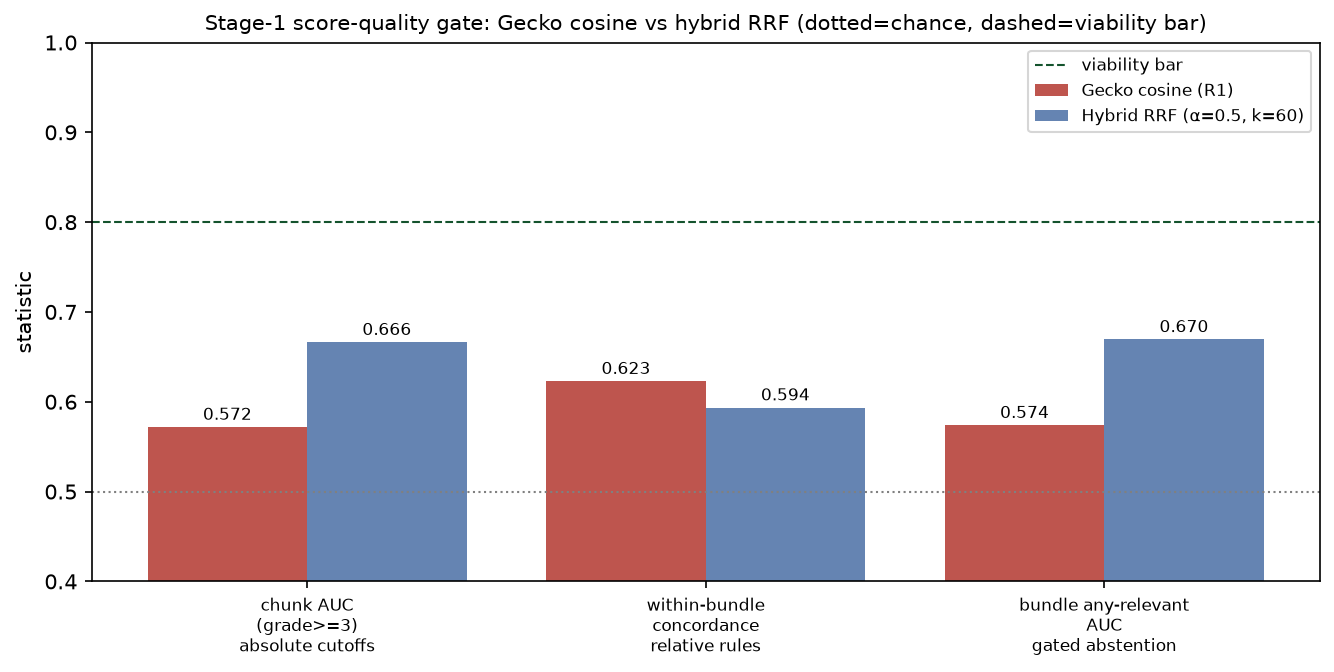
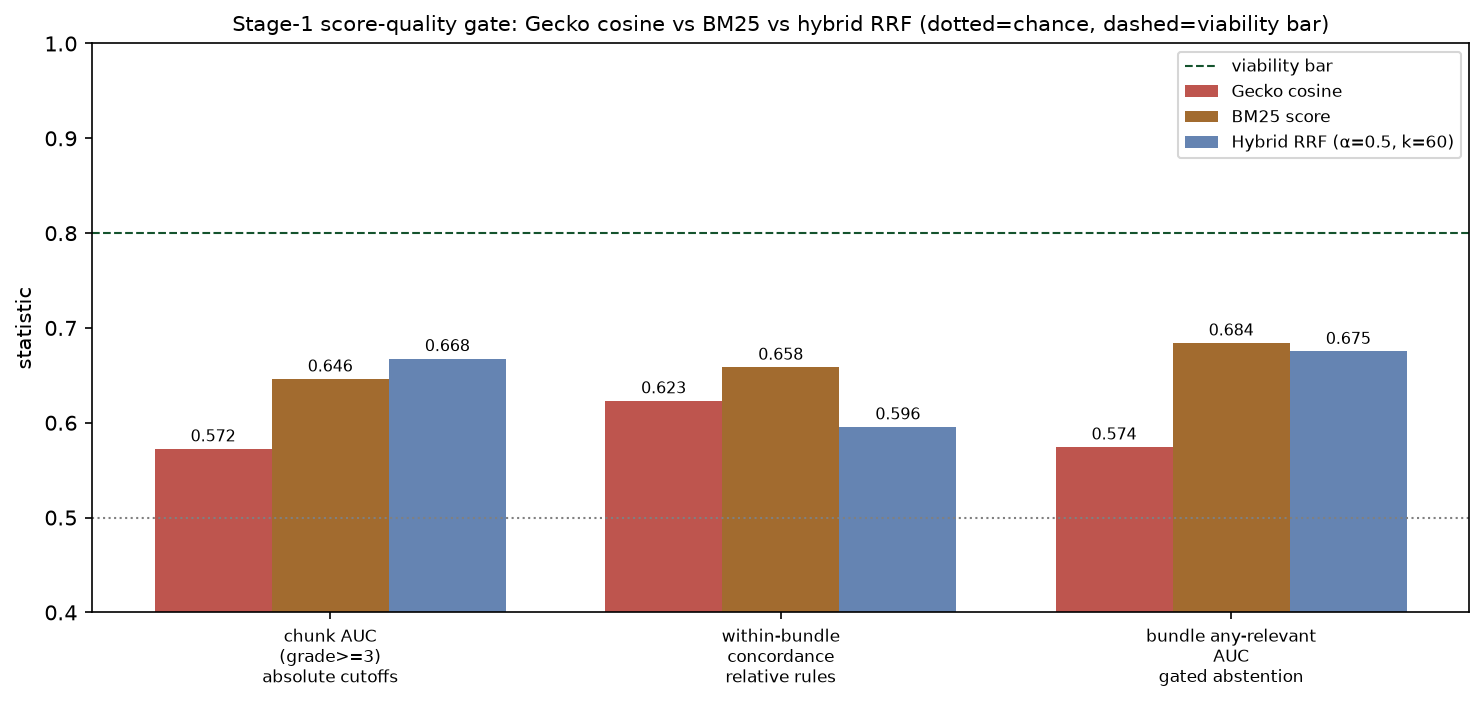
results(r2a): add BM25 to the threshold-gate comparison — three-way, all from data
Compute the Stage-1 gate on each retriever's native score (gecko cosine,
bm25 score, hybrid RRF) instead of citing hardcoded constants; gecko
reproduces R1's 0.572/0.623/0.574 exactly as a cross-check. Finding: BM25's
raw score is the most thresholdable (best on 2 of 3, incl. gated-abstention
bundle AUC 0.684); the hybrid wins cross-query chunk AUC but its
within-bundle concordance (0.596) drops below both parents. None reaches
the 0.80 bar — thresholding stays sub-viable, R1's core finding survives.

diff --git a/configs/config-v0.2.0/reports/r2-hybrid/r2a-hybrid-result-20260613.html b/configs/config-v0.2.0/reports/r2-hybrid/r2a-hybrid-result-20260613.html
@@ -123,47 +123,54 @@ is flat in it (P@3 moves ±0.01 across <em>k</em>=10–100).
 
 <h2>Does the hybrid revive thresholding?</h2>
 <p>
-R1 killed thresholding on Gecko's <em>cosine</em> scores. The hybrid produces a
-different score — the RRF fused score — which is rank-based and bounded, so it
-could be more comparable across queries. Running the R1 §6 Stage-1 gate on the
-fused score (deployable config α=0.5, k=60) against Gecko's cosine numbers:
+R1 killed thresholding on Gecko's <em>cosine</em> scores. Both alternatives carry
+a different score — BM25's lexical score, and the hybrid's RRF fused score, each
+rank-/frequency-based and bounded, so potentially more comparable across queries.
+Running the R1 §6 Stage-1 gate on all three native scores (hybrid at the
+deployable α=0.5, k=60). Gecko reproduces R1's cosine numbers exactly
+(0.572 / 0.623 / 0.574), a cross-check that the computation is sound.
 </p>
 <figure>
-  <img src="fig_hybrid_gate.png" alt="Stage-1 gate: Gecko cosine vs hybrid RRF">
-  <figcaption>The three Stage-1 statistics, Gecko cosine (R1) vs hybrid RRF.
-  Dotted = chance (0.5); dashed = the 0.80 viability bar.</figcaption>
+  <img src="fig_hybrid_gate.png" alt="Stage-1 gate: Gecko cosine vs BM25 vs hybrid RRF">
+  <figcaption>The three Stage-1 statistics, Gecko cosine vs BM25 score vs hybrid
+  RRF. Dotted = chance (0.5); dashed = the 0.80 viability bar.</figcaption>
 </figure>
 <table>
-  <tr><th>Statistic (rule family it gates)</th><th class="num">Gecko cosine (R1)</th>
-      <th class="num">Hybrid RRF</th></tr>
+  <tr><th>Statistic (rule family it gates)</th><th class="num">Gecko cosine</th>
+      <th class="num">BM25 score</th><th class="num">Hybrid RRF</th></tr>
   <tr><td>chunk AUC ≥3 (absolute cutoffs)</td><td class="num">0.572</td>
-      <td class="num win">0.666</td></tr>
+      <td class="num">0.646</td><td class="num win">0.668</td></tr>
   <tr><td>within-bundle concordance (relative rules)</td><td class="num">0.623</td>
-      <td class="num flat">0.594</td></tr>
+      <td class="num win">0.659</td><td class="num flat">0.596</td></tr>
   <tr><td>bundle any-relevant AUC (gated abstention)</td><td class="num">0.574</td>
-      <td class="num win">0.670</td></tr>
+      <td class="num win">0.684</td><td class="num">0.675</td></tr>
 </table>
 <ul>
-  <li><strong>The fused score is a meaningfully better global signal.</strong>
-      Chunk AUC and bundle-level AUC both jump ~0.10 — because RRF scores are
-      rank-based and comparable across queries (the cross-query comparability
-      cosine lacked), and "found by both retrievers at good rank" genuinely
-      tracks relevance.</li>
-  <li><strong>But still below the 0.80 viability bar.</strong> The best threshold
-      rule the hybrid enables — <em>gated abstention</em> ("if the fused top-1 is
-      low, skip RAG for this query") at AUC 0.670 — is the most promising
-      threshold-like signal we've measured, yet remains marginal, not viable.</li>
-  <li><strong>Relative rules stay dead.</strong> Within-bundle concordance is if
-      anything slightly worse (0.594): among the three already-top fused chunks,
-      the fine ordering carries no more relevance signal than cosine did. R1's
-      core finding — the score can't grade usefulness <em>within</em> the
-      retrieved set — survives the hybrid.</li>
+  <li><strong>BM25's raw score is the most thresholdable of the three</strong> —
+      best on two of three statistics, including the gated-abstention signal
+      (bundle AUC 0.684). Lexical match frequency is a more honest relevance-
+      confidence cue than embedding cosine: a chunk that shares the query's exact
+      terms is more reliably on-point than one that is merely near it in vector
+      space.</li>
+  <li><strong>Fusion trades within-bundle signal for cross-query separation.</strong>
+      The hybrid wins chunk AUC (0.668 — RRF scores are comparable across queries,
+      which cosine wasn't) but its within-bundle concordance (0.596) drops below
+      <em>both</em> parents: blending two rank systems blurs the fine ordering
+      inside a bundle. The best query-level gate signal is BM25's, not the
+      hybrid's.</li>
+  <li><strong>None reaches the 0.80 viability bar.</strong> The strongest
+      threshold-like signal anywhere — BM25's bundle-level gated abstention
+      ("skip RAG when the top BM25 score is low") at 0.684 — is the most promising
+      we've measured, yet still marginal, not viable. R1's core finding survives:
+      no score grades usefulness <em>within</em> the retrieved set well enough for
+      a relative rule (best concordance 0.659).</li>
 </ul>
 <p class="note">
-Takeaway: the hybrid does not revive thresholding to viability, but it shifts the
-most promising rule from "none" to a marginal <em>query-level RAG on/off gate</em>.
-If R2c/R2d later push the bundle-level AUC past ~0.80, that gate becomes worth an
-end-to-end test; today it is not.
+Takeaway: neither alternative revives thresholding to viability, but both beat
+Gecko's cosine, and BM25's lexical score is the single best relevance-confidence
+signal measured. The most promising rule is a marginal <em>query-level RAG on/off
+gate</em> driven by BM25's top score. If R2c/R2d later push a bundle-level AUC past
+~0.80, that gate becomes worth an end-to-end test; today it is not.
 </p>
 
 <h2>Reproducibility</h2>

diff --git a/retrieval_eval/gate_hybrid.py b/retrieval_eval/gate_hybrid.py
@@ -26,7 +26,41 @@ from datetime import datetime, timezone
 from pathlib import Path
 
 from retrieval_eval.compare_retriever_gates import gate_stats
-from retrieval_eval.simulate_hybrid import load_rank_maps
+
+
+def load_rankings_and_grades(hf_repo: str, revision: str):
+    """Return (rankings DataFrame, grades dict)."""
+    import pandas as pd
+    from datasets import load_dataset
+    from huggingface_hub import hf_hub_download
+
+    rk = pd.read_parquet(hf_hub_download(
+        hf_repo, "data/rankings.parquet", repo_type="dataset", revision=revision))
+    judgments = load_dataset(hf_repo, "judgments", revision=revision, split="test")
+    grades = {(r["query_id"], r["chunk_id"]): int(r["score"]) for r in judgments}
+    return rk, grades
+
+
+def single_retriever_rows(rk, retriever: str, grades: dict) -> list[dict]:
+    """Rows {query_id, rank, score, grade} from a retriever's own ranking +
+    its native score (cosine for gecko, BM25 score for bm25)."""
+    sub = rk[rk["retriever"] == retriever]
+    rows = []
+    for r in sub.itertuples():
+        g = grades.get((r.query_id, r.chunk_id))
+        if g is not None:
+            rows.append({"query_id": r.query_id, "rank": int(r.rank),
+                         "score": float(r.score), "grade": g})
+    return rows
+
+
+def rank_map(rk, retriever: str) -> dict:
+    """{query_id: {chunk_id: rank}} for RRF fusion."""
+    sub = rk[rk["retriever"] == retriever]
+    m: dict[str, dict[str, int]] = {}
+    for r in sub.itertuples():
+        m.setdefault(r.query_id, {})[r.chunk_id] = int(r.rank)
+    return m
 
 
 def build_hybrid_rows(gecko: dict, bm25: dict, grades: dict,
@@ -54,18 +88,6 @@ def build_hybrid_rows(gecko: dict, bm25: dict, grades: dict,
     return rows
 
 
-def gecko_rows(gecko: dict, grades: dict) -> list[dict]:
-    rows = []
-    for qid, ranks in gecko.items():
-        for cid, rk in ranks.items():
-            g = grades.get((qid, cid))
-            if g is not None:
-                # cosine score is irrelevant to rank-based stats; use -rank so
-                # within-bundle / pooled ordering matches gecko's own ranking.
-                rows.append({"query_id": qid, "rank": rk, "score": -rk, "grade": g})
-    return rows
-
-
 def main():
     ap = argparse.ArgumentParser(description=__doc__)
     ap.add_argument("--hf-repo", default="nmrenyi/mamaretrieval")
@@ -79,32 +101,30 @@ def main():
     results_dir = Path(args.results_dir); results_dir.mkdir(parents=True, exist_ok=True)
     report_dir = Path(args.report_dir); report_dir.mkdir(parents=True, exist_ok=True)
 
-    rank_maps, grades = load_rank_maps(args.hf_repo, args.revision)
-    gecko, bm25 = rank_maps["gecko"], rank_maps["bm25"]
+    rk, grades = load_rankings_and_grades(args.hf_repo, args.revision)
 
-    hybrid = gate_stats(build_hybrid_rows(gecko, bm25, grades, args.alpha, args.k))
+    # All three gates computed from data on their native score:
+    #   gecko -> cosine, bm25 -> BM25 score, hybrid -> RRF fused score.
+    gecko = gate_stats(single_retriever_rows(rk, "gecko", grades))
+    bm25 = gate_stats(single_retriever_rows(rk, "bm25", grades))
+    hybrid = gate_stats(build_hybrid_rows(
+        rank_map(rk, "gecko"), rank_map(rk, "bm25"), grades, args.alpha, args.k))
     hybrid["config"] = {"alpha": args.alpha, "k": args.k}
-
-    # Gecko reference: rank-based stats reproduce R1's cosine numbers because
-    # within gecko's own top-3 the cosine order IS the rank order; the chunk-AUC
-    # here uses -rank, so it is NOT the cosine AUC (that was 0.572 in R1). We
-    # cite R1's cosine AUC explicitly instead of recomputing it from ranks.
-    gecko_g = gate_stats(gecko_rows(gecko, grades))
 
     out = {
         "created_at_utc": datetime.now(timezone.utc).strftime("%Y-%m-%dT%H:%M:%SZ"),
         "source": {"hf_repo": args.hf_repo, "revision": args.revision},
-        "note": "hybrid score = RRF fused score; gecko_rank_based uses -rank so "
-                "its chunk_auc is a rank proxy, NOT gecko's cosine AUC (0.572, "
-                "see R1 §3). Compare the hybrid's RRF-score AUC against 0.572.",
-        "gecko_cosine_auc_grade3_from_r1": 0.572,
+        "note": "each gate computed on the retriever's native score: gecko cosine, "
+                "bm25 BM25 score, hybrid RRF fused score. gecko chunk AUC should "
+                "reproduce R1 §3 (0.572) as a cross-check.",
+        "gecko_cosine": gecko,
+        "bm25": bm25,
         "hybrid_rrf": hybrid,
-        "gecko_rank_based_reference": gecko_g,
     }
     with open(results_dir / "hybrid_gate.json", "w") as f:
         json.dump(out, f, indent=2)
 
-    # Comparison figure: gecko cosine (from R1) vs hybrid RRF on the 3 stats.
+    # Comparison figure: gecko cosine vs bm25 vs hybrid RRF on the 3 stats.
     import matplotlib
     matplotlib.use("Agg")
     import matplotlib.pyplot as plt
@@ -112,37 +132,43 @@ def main():
     labels = ["chunk AUC\n(grade>=3)\nabsolute cutoffs",
               "within-bundle\nconcordance\nrelative rules",
               "bundle any-relevant\nAUC\ngated abstention"]
-    gecko_vals = [0.572, 0.623, 0.574]   # R1 §3 cosine numbers
-    hybrid_vals = [hybrid["chunk_auc_grade3"], hybrid["within_bundle_concordance"],
-                   hybrid["bundle_any_relevant_auc_top1"]]
+    series = [
+        ("Gecko cosine", "#b3372f", [gecko["chunk_auc_grade3"],
+         gecko["within_bundle_concordance"], gecko["bundle_any_relevant_auc_top1"]]),
+        ("BM25 score", "#92510a", [bm25["chunk_auc_grade3"],
+         bm25["within_bundle_concordance"], bm25["bundle_any_relevant_auc_top1"]]),
+        (f"Hybrid RRF (α={args.alpha}, k={args.k})", "#4a6fa5",
+         [hybrid["chunk_auc_grade3"], hybrid["within_bundle_concordance"],
+          hybrid["bundle_any_relevant_auc_top1"]]),
+    ]
     x = range(len(labels))
-    fig, ax = plt.subplots(figsize=(9, 4.6))
-    ax.bar([i - 0.2 for i in x], gecko_vals, 0.4, label="Gecko cosine (R1)",
-           color="#b3372f", alpha=0.85)
-    ax.bar([i + 0.2 for i in x], hybrid_vals, 0.4,
-           label=f"Hybrid RRF (α={args.alpha}, k={args.k})", color="#4a6fa5",
-           alpha=0.85)
+    width = 0.26
+    fig, ax = plt.subplots(figsize=(10, 4.8))
+    for j, (name, color, vals) in enumerate(series):
+        offs = (j - 1) * width
+        ax.bar([i + offs for i in x], vals, width, label=name, color=color, alpha=0.85)
+        for i, v in enumerate(vals):
+            ax.text(i + offs, v + 0.008, f"{v:.3f}", ha="center", fontsize=7.5)
     ax.axhline(0.5, ls=":", color="gray", lw=1)
     ax.axhline(0.8, ls="--", color="#14532d", lw=1, label="viability bar")
     ax.set_xticks(list(x)); ax.set_xticklabels(labels, fontsize=8)
     ax.set_ylim(0.4, 1.0); ax.set_ylabel("statistic")
-    for i, (g, h) in enumerate(zip(gecko_vals, hybrid_vals)):
-        ax.text(i - 0.2, g + 0.008, f"{g:.3f}", ha="center", fontsize=8)
-        ax.text(i + 0.2, h + 0.008, f"{h:.3f}", ha="center", fontsize=8)
-    ax.set_title("Stage-1 score-quality gate: Gecko cosine vs hybrid RRF "
+    ax.set_title("Stage-1 score-quality gate: Gecko cosine vs BM25 vs hybrid RRF "
                  "(dotted=chance, dashed=viability bar)", fontsize=10)
     ax.legend(fontsize=8)
     fig.tight_layout()
     fig.savefig(report_dir / "fig_hybrid_gate.png", dpi=150, bbox_inches="tight")
     plt.close(fig)
 
-    print(f"Hybrid (alpha={args.alpha}, k={args.k}) Stage-1 gate on RRF score:")
-    print(f"  chunk AUC (grade>=3)        : {hybrid['chunk_auc_grade3']}  "
-          f"(gecko cosine was 0.572)")
-    print(f"  within-bundle concordance   : {hybrid['within_bundle_concordance']}  "
-          f"(gecko cosine was 0.623)")
-    print(f"  bundle any-relevant AUC     : {hybrid['bundle_any_relevant_auc_top1']}  "
-          f"(gecko cosine was 0.574)")
+    def line(name, g):
+        print(f"  {name:14s} chunkAUC={g['chunk_auc_grade3']}  "
+              f"conc={g['within_bundle_concordance']}  "
+              f"bundleAUC={g['bundle_any_relevant_auc_top1']}")
+    print("Stage-1 gate on native scores:")
+    line("gecko cosine", gecko)
+    line("bm25 score", bm25)
+    line(f"hybrid RRF", hybrid)
+    print(f"(gecko chunk AUC should reproduce R1's 0.572)")
     print(f"Written: {results_dir}/hybrid_gate.json")
 
 
